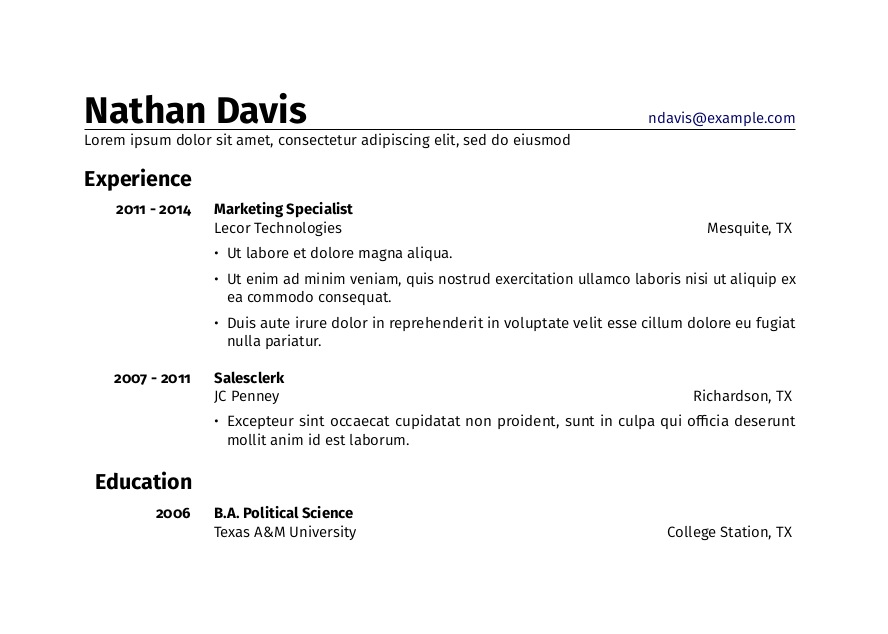
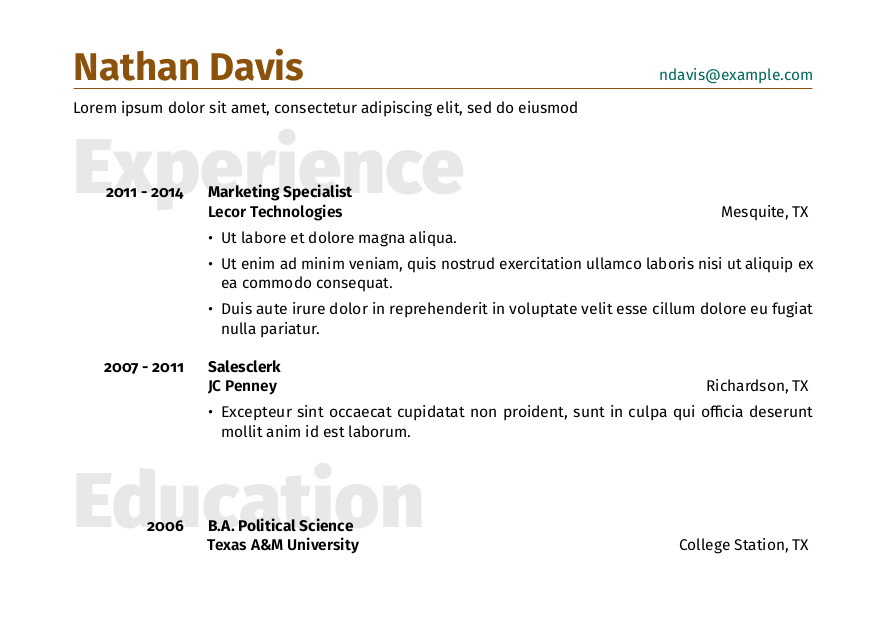
feat: add some color

diff --git a/mystyle.tex b/mystyle.tex
@@ -8,11 +8,17 @@
 \usepackage{fancyhdr}
 \usepackage{color}
 \definecolor{mylinkcolor}{rgb}{0,0,0.4}
+\definecolor{brbg71}{rgb}{0.55,0.32,0.04}
+\definecolor{brbg72}{rgb}{0.85,0.70,0.40}
+\definecolor{brbg73}{rgb}{0.96,0.91,0.76}
+\definecolor{brbg74}{rgb}{0.91,0.91,0.91}
+\definecolor{brbg76}{rgb}{0.35,0.71,0.67}
+\definecolor{brbg77}{rgb}{0.00,0.40,0.37}
 \usepackage[pdfstartview={FitH},
 colorlinks=true,
-linkcolor=mylinkcolor,
-urlcolor=mylinkcolor,
-anchorcolor=mylinkcolor]{hyperref}
+linkcolor=brbg77,
+urlcolor=brbg77,
+anchorcolor=brbg77]{hyperref}
 \addtolength{\textheight}{\footskip}
 \setlength{\footskip}{12pt}
 \setlength{\voffset}{-10pt}
@@ -29,7 +35,7 @@ anchorcolor=mylinkcolor]{hyperref}
 \newcommand{\DUroledescription}[1]{\phantomsection%
     \renewcommand{\positiontitle}{#1}{{\sffamily \bfseries #1}} \\ }
 \newcommand{\DUroleorganization}[1]{%
-    \addcontentsline{toc}{subsection}{\positiontitle, #1}{\textsf{#1}}}
+    \addcontentsline{toc}{subsection}{\positiontitle, #1}{\firasemibold \textsf{#1}}}
 \newcommand{\DUrolelocation}[1]{~\hfill\textsf{#1} }
 \newcommand{\DUroletech}[1]{%
   ~\hfill\textsf{\textcolor[rgb]{.55,.55,.55}{#1}} }
@@ -95,17 +101,17 @@ anchorcolor=mylinkcolor]{hyperref}
 % don't empty out \@title, just request alternate header
 \def\maketitle{\thispagestyle{plain}}%
 
-\titleformat{\section}
-{\Large \sffamily \bfseries}
+\titleformat{\section}[leftmargin]
+{\fontsize{50}{50} \sffamily \firaheavy }
 {}
 {0pt}
-{\parbox[t]{\mylcolwidth + 26pt}{\raggedleft #1}}
+{\raisebox{-0.365em}[0em][0em]{\color{brbg74} #1}}
 
-\titlespacing{\section}{-35pt}{8pt}{0pt}
+\titlespacing{\section}{0pt}{-0.7em}{0pt}
 
 \newcommand{\infosep}{\makebox[2em][c]{$\bullet$}}
-\newcommand{\MYNAME}{{\Huge \sffamily \bfseries \@title}}
-\newcommand{\MyName}{{\Large \sffamily \bfseries \@title}}
+\newcommand{\MYNAME}{{\Huge \sffamily \bfseries \color{brbg71}\@title}}
+\newcommand{\MyName}{{\Large \sffamily \bfseries \color{brbg71}\@title}}
 \newcommand{\MYINFO}{{\sffamily \@infoemail\Large \infolinks}}
 \newcommand{\MyInfo}{}
 \makeatother
@@ -113,5 +119,8 @@ anchorcolor=mylinkcolor]{hyperref}
 \lhead[\fancyplain{\MYNAME}{\MyName}]{\fancyplain{\MYNAME}{\MyName}}
 \rhead[\fancyplain{\MYINFO}{\MyInfo}]{\fancyplain{\MYINFO}{\MyInfo}}
 \cfoot[]{}
-\renewcommand{\plainheadrulewidth}{0.4pt}
+\renewcommand{\plainheadrulewidth}{0.5pt}
+\renewcommand{\headrule}{\vspace{-7pt}\vbox to 0pt{%
+  \hbox to\headwidth{%
+    \color{brbg71}\leaders\hrule height \plainheadrulewidth\hfill}}}
 \pagestyle{fancyplain}
